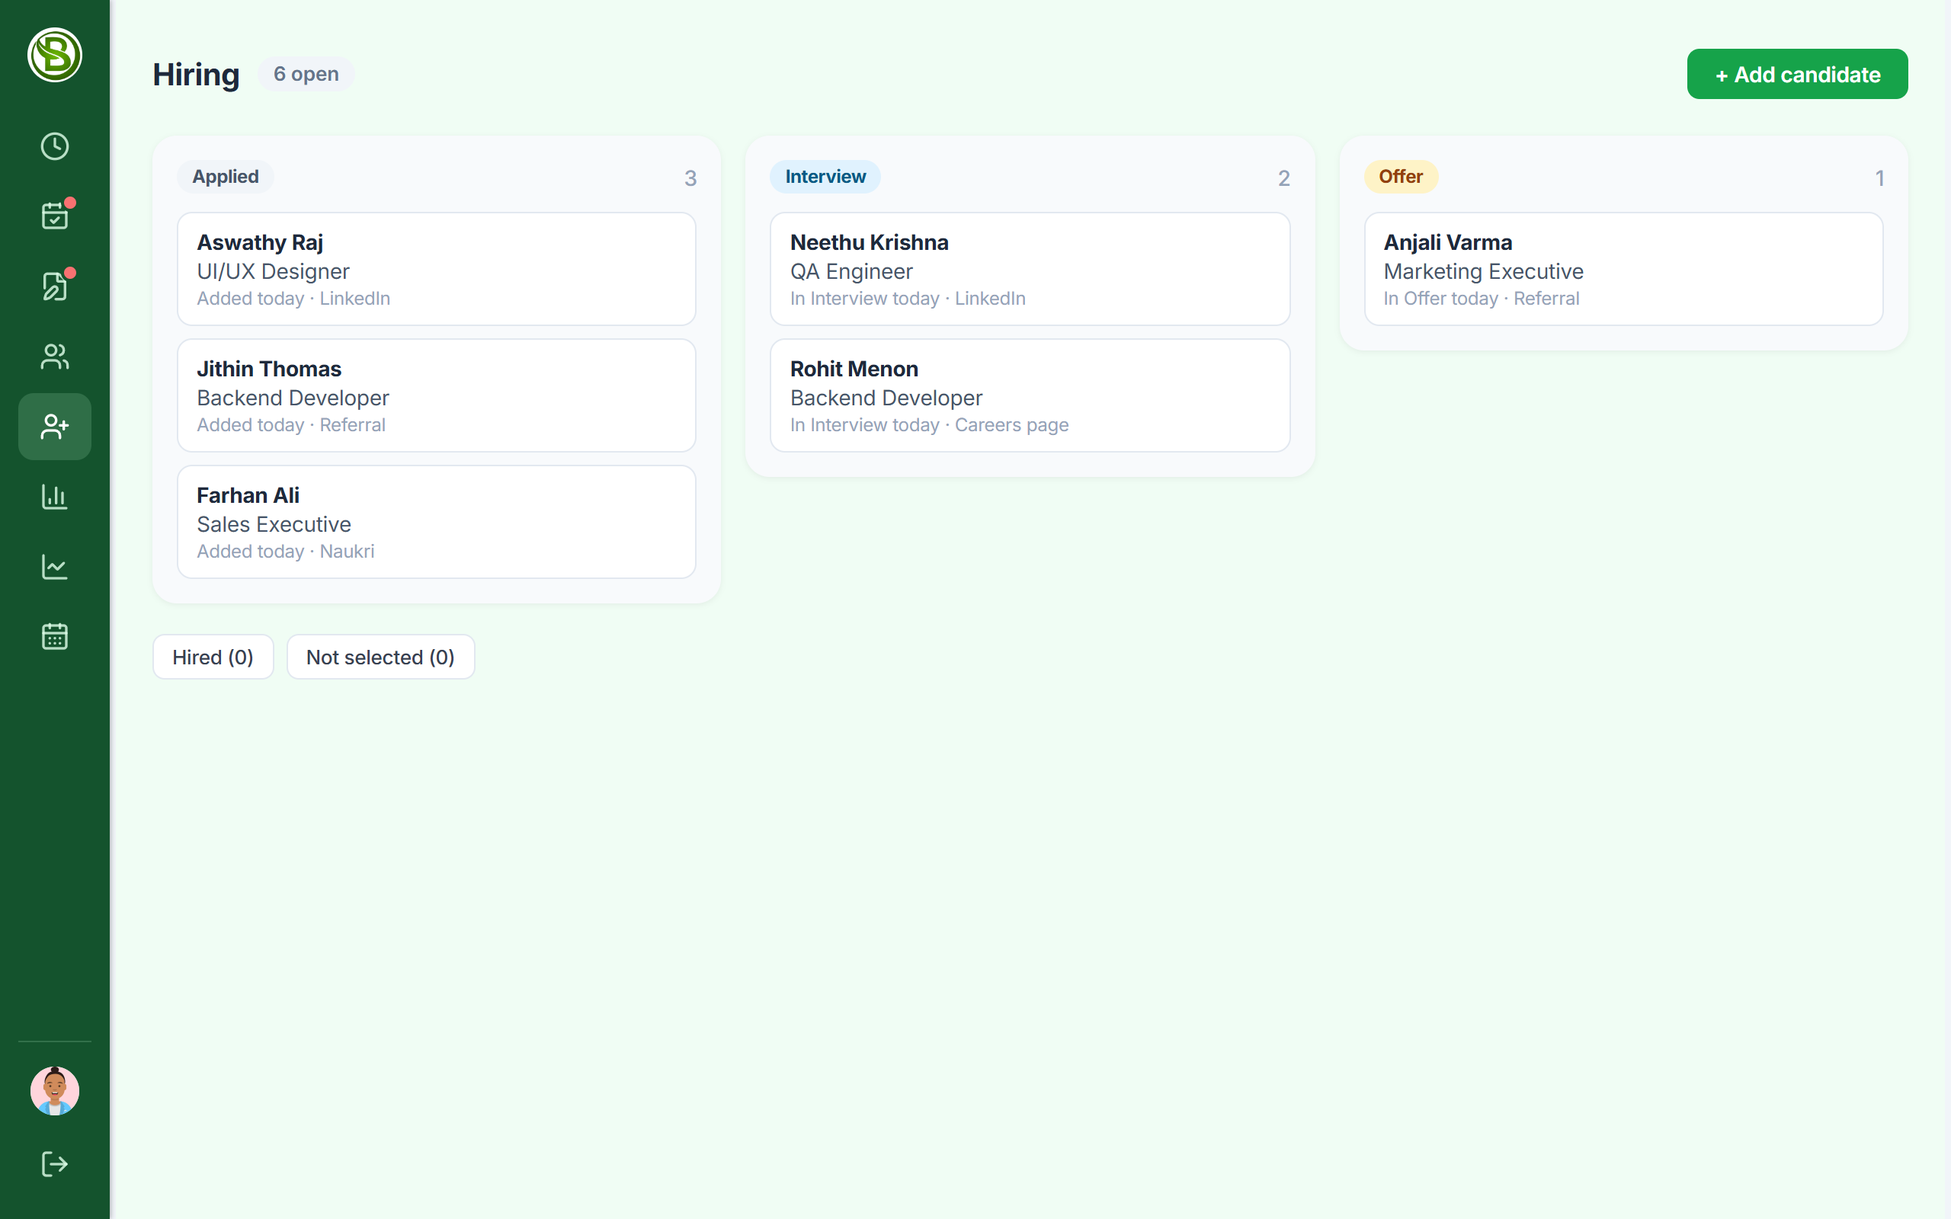
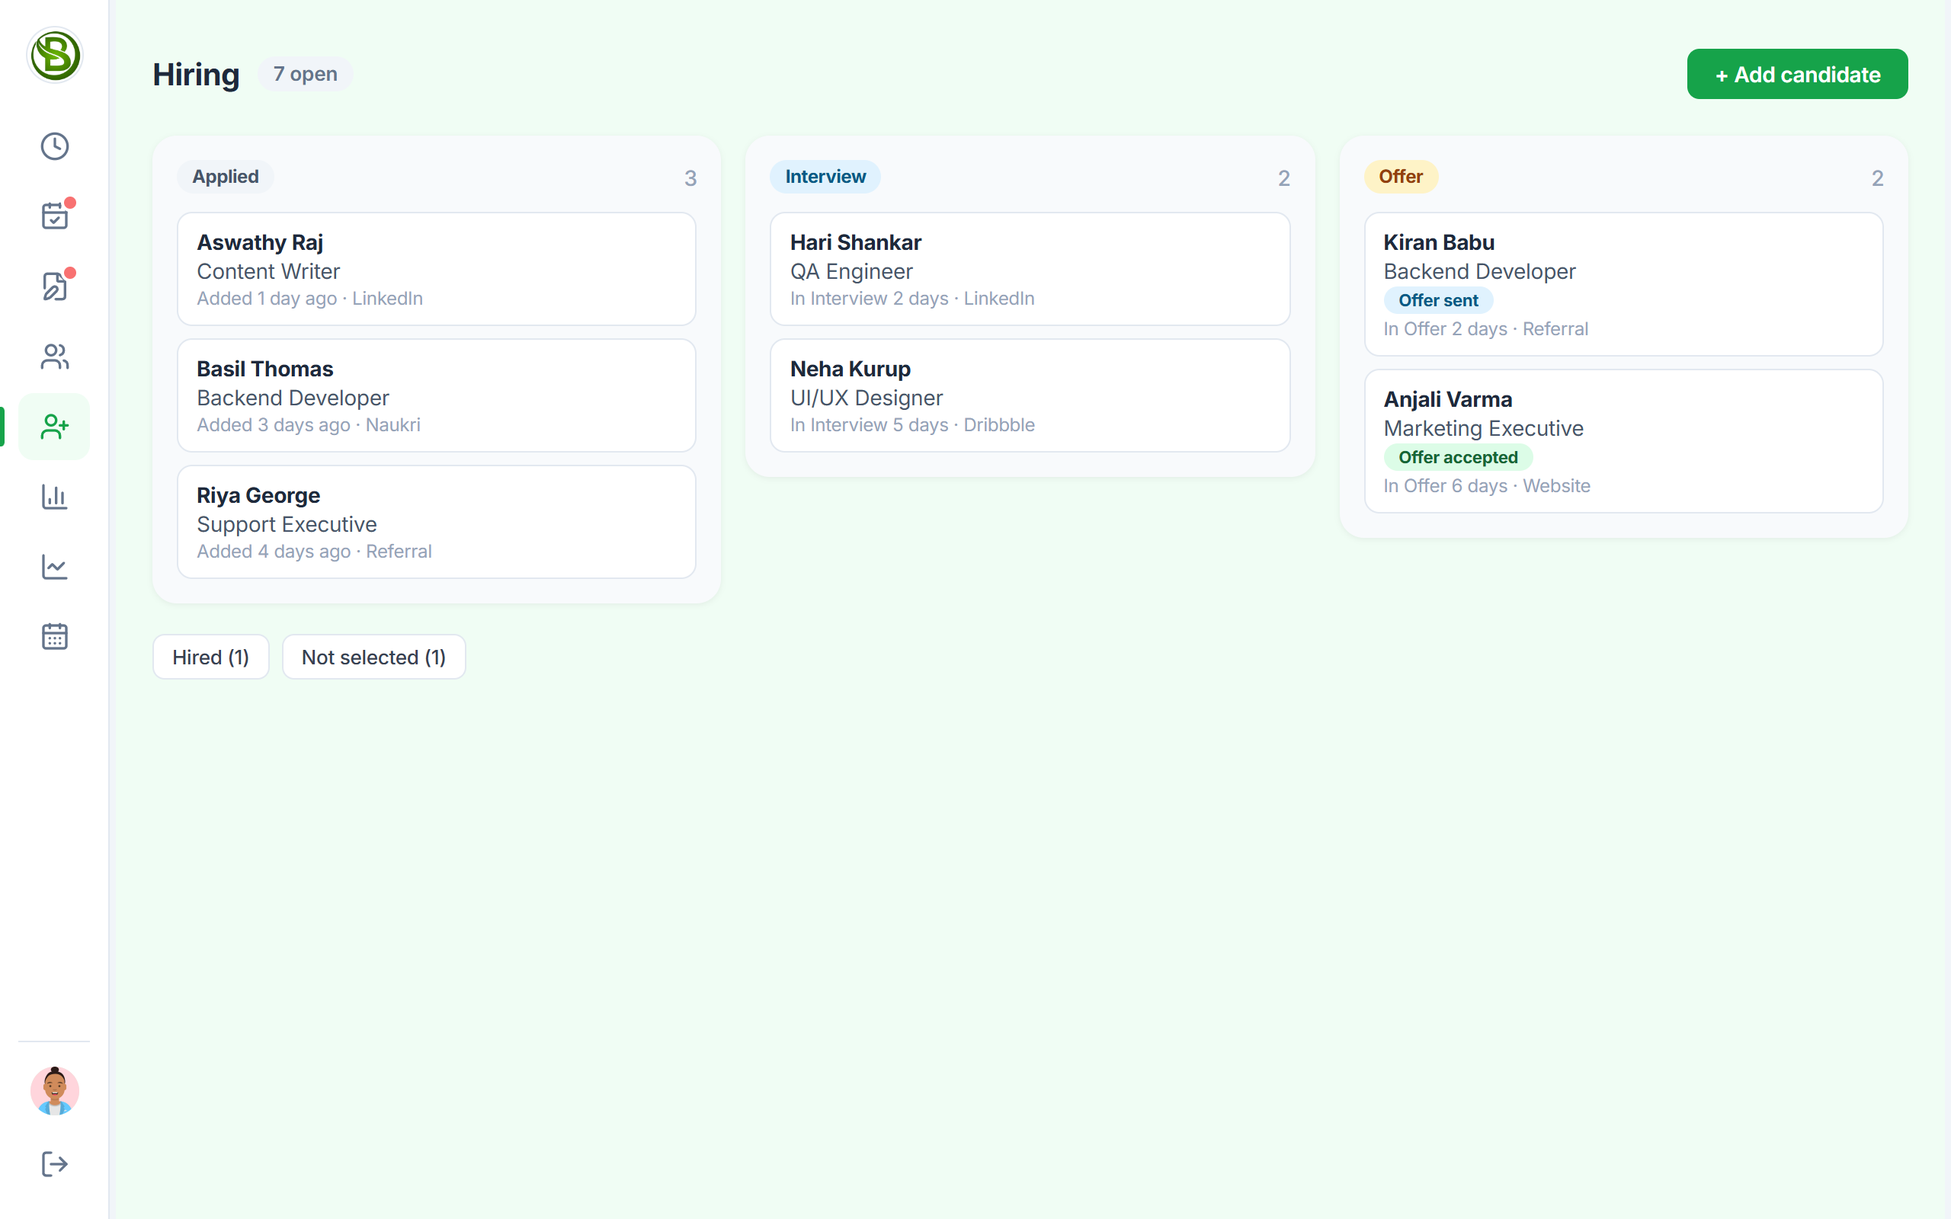
feat: lead form at the top and screenshots of the latest app
The hero now opens with a walkthrough form next to the headline (form
first on phones). New sections for the admin home, requests (shift
changes, permissions, corrections) and hiring with offer letters; the
employee dashboard copy covers the smart Check In bar, productivity
score and calendar log. All screenshots retaken from the live demo.

diff --git a/src/App.tsx b/src/App.tsx
@@ -1,8 +1,9 @@
 import { useState } from 'react'
 import {
-  ArrowRight, BadgeIndianRupee, Bell, Briefcase, Building2, Camera, CalendarCheck, CalendarDays, ChartColumn, Check,
-  ClipboardCheck, Clock, Coffee, Database, FileCheck, Globe, KeyRound, LogIn, Mail, MapPin, Menu, MessageCircle,
-  Palette, ScrollText, ShieldCheck, Smartphone, Sparkles, Timer, TrendingUp, UserCheck, UserCog, UserPlus, Users, X,
+  ArrowRight, BadgeIndianRupee, Bell, Briefcase, Building2, Cake, Camera, CalendarCheck, CalendarDays, ChartColumn, Check,
+  ClipboardCheck, Clock, Coffee, Database, FileCheck, FileSignature, Gauge, Globe, KeyRound, LogIn, Mail, MapPin, Menu,
+  MessageCircle, Palette, Repeat, ScrollText, ShieldCheck, Smartphone, Sparkles, Timer, TrendingUp, UserCheck, UserCog,
+  UserPlus, Users, X,
 } from 'lucide-react'
 import { CONTACT, DEMO_LOGINS, DEMO_PASSWORD, DEMO_URL, GST_NOTE, PHONE_SHOTS, PLANS, PRICING_FOOTNOTES, SHOTS } from './config'
 import type { Shot } from './config'
@@ -32,6 +33,7 @@ export default function App() {
       <Header open={menuOpen} setOpen={setMenuOpen} />
       <main>
         <Hero />
+        <Showcase />
         <ProofStrip />
         <WhySwitch />
         <Highlights />
@@ -82,7 +84,7 @@ function Header({ open, setOpen }: { open: boolean; setOpen: (v: boolean) => voi
           {NAV.map(([label, href]) => (
             <a key={href} href={href} onClick={() => setOpen(false)}>{label}</a>
           ))}
-          <a className="btn btn-outline btn-sm" href="#contact" onClick={() => setOpen(false)}>Book a walkthrough</a>
+          <a className="btn btn-outline btn-sm" href="#top" onClick={() => setOpen(false)}>Book a walkthrough</a>
           <a className="btn btn-primary btn-sm" href={demoLink('admin')} {...demoTarget} onClick={() => setOpen(false)}>Try live demo</a>
         </nav>
         <button className="nav-toggle" onClick={() => setOpen(!open)} aria-label={open ? 'Close menu' : 'Open menu'} aria-expanded={open}>
@@ -97,35 +99,53 @@ function Header({ open, setOpen }: { open: boolean; setOpen: (v: boolean) => voi
 
 function Hero() {
   return (
-    <section className="hero hero--v2" id="top">
-      <div className="wrap hero-v2-grid">
-        <div className="hero-v2-copy">
+    <section className="hero" id="top">
+      <div className="wrap hero-grid">
+        <div className="hero-head">
           <p className="eyebrow">White-label HR app · Made in Kerala for Indian teams</p>
           <h1>Attendance, leave and payroll — <span>under your brand.</span></h1>
+        </div>
+        <div className="hero-copy">
           <p className="lead">
-            Selfie and location-checked check-ins, Indian leave rules that run themselves, and salaries in rupees.
-            Your logo, your web address, your own private database. We set it all up for you.
+            One-tap check-ins with selfie and location checks, Indian leave rules that run themselves, and salaries
+            in rupees — plus hiring, offer letters and onboarding. Your logo, your web address, your own private database.
           </p>
           <ul className="hero-points">
             <li><Check size={16} /> Stops proxy attendance with a selfie and an office-area check</li>
             <li><Check size={16} /> Casual, Sick, Earned and Loss of Pay worked out automatically</li>
-            <li><Check size={16} /> Hiring, onboarding and payroll in the same app</li>
+            <li><Check size={16} /> A productivity score and calendar log every employee understands</li>
+            <li><Check size={16} /> Live in about a week — we set everything up for you</li>
           </ul>
           <div className="hero-cta">
-            <a className="btn btn-primary btn-lg" href={demoLink('admin')} {...demoTarget}>
+            <a className="btn btn-outline btn-lg" href={demoLink('admin')} {...demoTarget}>
               <LogIn size={18} /> Try the live demo
             </a>
-            <a className="btn btn-outline btn-lg" href={demoLink('employee')} {...demoTarget}>
-              See the employee app
+            <a className="btn btn-ghost btn-lg" href={demoLink('employee')} {...demoTarget}>
+              See the employee app <ArrowRight size={16} />
             </a>
           </div>
-          <p className="hero-v2-note">
-            No sign-up — opens a real demo company. Prefer a guided tour? <a href="#contact">Book a free walkthrough <ArrowRight size={14} /></a>
-          </p>
+          <p className="hero-v2-note">No sign-up — the demo opens a real sample company.</p>
         </div>
-        <div className="hero-v2-visual">
-          <BrowserShot shot={SHOTS.attendance} eager />
-          <div className="hero-v2-phone"><PhoneShot shot={PHONE('phone-selfie.png')} /></div>
+        <div className="hero-form" id="get-started">
+          <div className="hero-form-head">
+            <span className="hero-form-badge"><Sparkles size={14} /> Free walkthrough + quote</span>
+            <h2>See it with your own shifts and leave policy</h2>
+            <p>Leave your details and we’ll call you within one working day to set up a 30-minute walkthrough.</p>
+          </div>
+          <ContactForm variant="hero" />
+        </div>
+      </div>
+    </section>
+  )
+}
+
+function Showcase() {
+  return (
+    <section className="showcase" aria-label="The employee dashboard">
+      <div className="wrap">
+        <div className="showcase-shot">
+          <BrowserShot shot={SHOTS.dashboard} eager />
+          <div className="showcase-phone"><PhoneShot shot={PHONE('phone-dashboard.png')} /></div>
         </div>
       </div>
     </section>
@@ -184,21 +204,25 @@ function WhySwitch() {
 // ── Everything at a glance ──────────────────────────────────
 
 const HIGHLIGHTS = [
-  { icon: Clock,          title: 'Check in & breaks',     text: 'One-tap check-in, pause and resume breaks, confirm on check-out.' },
+  { icon: Clock,          title: 'Smart check-in',        text: 'One big button that shows on time, late or half day by your shift rules.' },
+  { icon: Gauge,          title: 'Productivity score',    text: 'Attendance, punctuality and hours vs shift rolled into one score.' },
   { icon: Camera,         title: 'Selfie check-in',       text: 'A live photo at check-in, shown next to the profile photo.' },
   { icon: MapPin,         title: 'Location check',        text: 'Check-ins compared with each office’s area; remote staff skipped.' },
   { icon: Timer,          title: 'Shift rules',           text: 'Late, half-day and minimum-break rules set per shift.' },
+  { icon: Repeat,         title: 'Shift swaps & permissions', text: 'One-day shift changes and short permissions, with monthly limits.' },
   { icon: CalendarCheck,  title: 'Leave & balances',      text: 'Monthly accrual, Apr–Mar year, carry-forward, monthly limits.' },
-  { icon: BadgeIndianRupee, title: 'Payroll in INR',      text: 'Paid days → salary, with paid leave and Loss of Pay.' },
-  { icon: ClipboardCheck, title: 'Corrections',           text: 'Forgot to check out? Ask, and an admin approves.' },
-  { icon: ChartColumn,    title: 'Statistics',            text: 'Personal and team stats, 6-month trends, PDF reports.' },
+  { icon: BadgeIndianRupee, title: 'Payroll in INR',      text: 'Paid days → salary; unplanned absences count as Loss of Pay.' },
+  { icon: ClipboardCheck, title: 'Corrections',           text: 'Forgot to check out? Ask from the calendar log; an admin approves.' },
+  { icon: ChartColumn,    title: 'Statistics',            text: 'Personal and team stats, heatmaps, 6-month trends, PDF reports.' },
   { icon: UserPlus,       title: 'Hiring',                text: 'Candidates from applied to offer, then one-click hire.' },
-  { icon: Briefcase,      title: 'Onboarding',            text: 'Checklists, document uploads and probation reminders.' },
+  { icon: FileSignature,  title: 'Offer letters',         text: 'PDF offer letters emailed from the app; candidates accept online.' },
+  { icon: Briefcase,      title: 'Onboarding',            text: 'Checklists, document uploads, HR verification and probation.' },
   { icon: ScrollText,     title: 'Leave policy',          text: 'Always up to date; employees confirm they’ve read it.' },
+  { icon: Cake,           title: 'Birthdays & anniversaries', text: 'The admin home shows who’s celebrating in the next 30 days.' },
   { icon: Users,          title: 'Employee records',      text: 'IDs, statuses, notice periods, managers, HR notes.' },
   { icon: KeyRound,       title: 'Secure logins',         text: 'Own password at first login; admins can reset any time.' },
   { icon: Bell,           title: 'WhatsApp alerts',       text: 'Admins hear about leave the moment it’s requested.' },
-  { icon: CalendarDays,   title: 'Holidays',              text: 'Public and optional holidays (pick 1 of 2) per year.' },
+  { icon: CalendarDays,   title: 'Holidays',              text: 'Holiday list, optional holidays (pick 1 of 2) and “Add to my calendar”.' },
   { icon: Palette,        title: 'White-label',           text: 'Your brand on every screen, PDF and the browser tab.' },
 ]
 
@@ -274,7 +298,7 @@ function Security() {
           />
           <FeatureRow
             flip
-            shot={SHOTS.attendance}
+            shot={SHOTS.location}
             eyebrow={<><MapPin size={14} /> Location check</>}
             title="Know they checked in from the office"
             points={[
@@ -304,7 +328,7 @@ function Demo() {
           <h2>Don’t take our word for it. <span>Click around a real company.</span></h2>
           <p>
             Sproutbien Technologies, Trivandrum — 13 people running on the app. During the day they check in, take
-            breaks and check out on their own. Approve leave, run payroll, try the selfie check-in: it all resets every night.
+            breaks and check out on their own. Approve leave, run payroll, send an offer letter, try the selfie check-in: it all resets every night.
           </p>
           <ul className="demo-facts">
             <li><strong>13</strong><span>employees</span></li>
@@ -346,10 +370,21 @@ const FEATURES = [
     eyebrow: 'For employees',
     title: 'A check-in screen people actually like using',
     points: [
-      'Check in, take a break, check out — the timer pauses during breaks',
-      'Late after your grace time, automatic half day after a cut-off — set per shift',
-      'A minimum break is counted on full days, so skipping the pause button gains nothing',
-      'Their own month: hours, late days, leave and a log they can ask to correct',
+      'One full-width Check In bar — its colour follows the shift rules: on time, late or half day',
+      'Today’s shift, the last 6 days and this month at a glance, with an on-time streak',
+      'A productivity score out of 100 from attendance, punctuality and hours vs shift',
+      'The month as a calendar: tap any day for times and breaks, or to ask for a correction',
+    ],
+  },
+  {
+    shot: SHOTS.attendance,
+    eyebrow: 'For admins',
+    title: 'Your whole team on one home screen',
+    points: [
+      'Present, late, absent and on leave — with names — the moment you log in',
+      '“Right now”: who’s working, on a break or checked out, and the average check-in',
+      'A 7-day trend, gentle “running late” nudges and upcoming birthdays, anniversaries and holidays',
+      'Everything waiting for approval — leave, corrections, shift changes — in one bar',
     ],
   },
   {
@@ -361,7 +396,19 @@ const FEATURES = [
       'Earned leave carries forward (capped); Casual and Sick lapse; optional monthly limits',
       'Sundays and holidays inside a leave aren’t counted; half days count as 0.5',
       'Not enough balance? Use what’s left and take the rest as Loss of Pay',
+      'Apply up to 7 days back; days absent without leave count as Loss of Pay',
       'Record a voice note instead of typing; attach medical certificates to sick leave',
+    ],
+  },
+  {
+    shot: SHOTS.requests,
+    eyebrow: 'Requests',
+    title: 'Shift swaps, permissions and corrections — without WhatsApp chasing',
+    points: [
+      'Swap to another shift for a day; the late and half-day rules follow the new shift',
+      'Short permissions (e.g. 4–5:30 PM) with a monthly limit you set',
+      'Time corrections from the calendar log; admins approve, adjust or reject',
+      'Admins can also change someone’s shift for a day directly',
     ],
   },
   {
@@ -370,8 +417,20 @@ const FEATURES = [
     title: 'Team stats that point you to what matters',
     points: [
       'Attendance %, average hours and on-time rate per person and department',
+      'A day-by-day heatmap of the whole team and a “Who’s out” panel for the week',
       '“Worth a look” card for patterns like skipped breaks or very long days',
       'Six-month trends, sortable comparison table, one-click PDF',
+    ],
+  },
+  {
+    shot: SHOTS.hiring,
+    eyebrow: 'Hiring',
+    title: 'From candidate to offer letter to first day',
+    points: [
+      'Track candidates from applied to interview to offer, with résumés and notes',
+      'Fill in an offer letter, preview it and approve — a signed PDF is emailed from the app',
+      'The candidate accepts or declines online; you see when they opened it',
+      'Hire in one click: the employee, their onboarding checklist and the accepted offer are ready',
     ],
   },
   {
@@ -405,7 +464,7 @@ function Features() {
 // ── HR suite gallery ────────────────────────────────────────
 
 const GALLERY = [
-  SHOTS.hiring, SHOTS.profile, SHOTS.policy, SHOTS.approvals, SHOTS.corrections,
+  SHOTS.offer, SHOTS.profile, SHOTS.policy, SHOTS.approvals, SHOTS.myProfile, SHOTS.holidays,
   SHOTS.employees, SHOTS.shifts, SHOTS.calendar, SHOTS.stats, SHOTS.login,
 ]
 
@@ -561,7 +620,7 @@ function CtaBand({ title, text }: { title: string; text: string }) {
         </div>
         <div className="cta-band-actions">
           <a className="btn btn-white btn-lg" href={demoLink('admin')} {...demoTarget}><LogIn size={18} /> Try the live demo</a>
-          <a className="btn btn-on-dark btn-lg" href="#contact">Book a free walkthrough</a>
+          <a className="btn btn-on-dark btn-lg" href="#top">Book a free walkthrough</a>
         </div>
       </div>
     </section>

diff --git a/src/config.ts b/src/config.ts
@@ -112,16 +112,21 @@ export type Shot = { file: string; title: string; caption: string }
 
 export const SHOTS = {
   login:           { file: 'login.png',             title: 'Login',               caption: 'Branded sign-in; employees choose their own password at first login.' },
-  dashboard:       { file: 'dashboard.png',         title: 'Employee dashboard',  caption: 'Check in, pause for a break, check out — today’s time and this month at a glance.' },
+  dashboard:       { file: 'dashboard.png',         title: 'Employee dashboard',  caption: 'A smart Check In bar, today’s shift, the last 6 days, a productivity score and the month as a calendar.' },
   selfie:          { file: 'checkin-selfie.png',    title: 'Selfie check-in',     caption: 'The camera opens at check-in; no gallery uploads.' },
   selfieReview:    { file: 'selfie-review.png',     title: 'Selfie review',       caption: 'The check-in selfie next to the profile photo, one click from the attendance list.' },
   security:        { file: 'checkin-security.png',  title: 'Check-in rules',      caption: 'Switch selfie and location checks on for everyone or per person; set an area for each office.' },
-  attendance:      { file: 'admin-attendance.png',  title: 'Daily attendance',    caption: 'Who’s in, late or on leave — with each check-in’s selfie and location.' },
+  attendance:      { file: 'admin-home.png',        title: 'Admin home',          caption: 'Who’s in, late, absent or on leave, a 7-day trend, running-late nudges and birthdays coming up.' },
+  location:        { file: 'admin-attendance.png',  title: 'Daily attendance',    caption: 'Every check-in with its selfie and location result.' },
+  requests:        { file: 'requests.png',          title: 'Requests',            caption: 'One-day shift changes, permissions and time corrections, approved in one place.' },
+  offer:           { file: 'offer-letter.png',      title: 'Offer letters',       caption: 'A PDF offer letter emailed from Hiring; the candidate accepts online.' },
+  myProfile:       { file: 'my-profile.png',        title: 'My Profile',          caption: 'Employees see their job details, documents and keep their contact details up to date.' },
+  holidays:        { file: 'holidays.png',          title: 'Holidays',            caption: 'The year’s holidays, the next one, optional holidays to pick and “Add to my calendar”.' },
   leave:           { file: 'leave.png',             title: 'Request leave',       caption: 'Live balances, half days, voice notes and sick-leave documents.' },
   stats:           { file: 'stats.png',             title: 'My Statistics',       caption: 'Punctuality, hours vs shift, leave and a 6-month trend — downloadable as PDF.' },
-  teamStats:       { file: 'team-stats.png',        title: 'Team Stats',          caption: 'Compare people and departments; “Worth a look” flags odd patterns.' },
-  profile:         { file: 'employee-profile.png',  title: 'Onboarding',          caption: 'A checklist for every new joiner, with their documents in one place.' },
-  hiring:          { file: 'hiring.png',            title: 'Hiring',              caption: 'Candidates from applied to offer; one click turns a hire into an employee.' },
+  teamStats:       { file: 'team-stats.png',        title: 'Team Stats',          caption: 'Compare people and departments, see who’s out this week; “Worth a look” flags odd patterns.' },
+  profile:         { file: 'employee-profile.png',  title: 'Onboarding',          caption: 'A checklist for every new joiner; HR verifies their documents or asks for a re-send.' },
+  hiring:          { file: 'hiring.png',            title: 'Hiring',              caption: 'Candidates from applied to interview to offer; one click turns a hire into an employee.' },
   policy:          { file: 'leave-policy.png',      title: 'Leave policy',        caption: 'Built from your real settings; employees confirm they’ve read each update.' },
   employees:       { file: 'employees.png',         title: 'Employees',           caption: 'Filters by department, status and location; deleted staff go to a bin.' },
   shifts:          { file: 'shifts.png',            title: 'Shifts',              caption: 'Each shift sets its own late, half-day and minimum-break rules.' },
@@ -137,8 +142,8 @@ export const SHOTS = {
 
 export const PHONE_SHOTS: Shot[] = [
   { file: 'phone-dashboard.png',  title: 'Check in',   caption: 'One tap from the phone.' },
+  { file: 'phone-log.png',        title: 'Month log',  caption: 'Every day, as a calendar.' },
   { file: 'phone-selfie.png',     title: 'Selfie',     caption: 'Proof it’s really them.' },
   { file: 'phone-leave.png',      title: 'Leave',      caption: 'Apply with a voice note.' },
-  { file: 'phone-stats.png',      title: 'Statistics', caption: 'Their month, clearly.' },
   { file: 'phone-admin.png',      title: 'Admin',      caption: 'Who’s in, at a glance.' },
 ]
